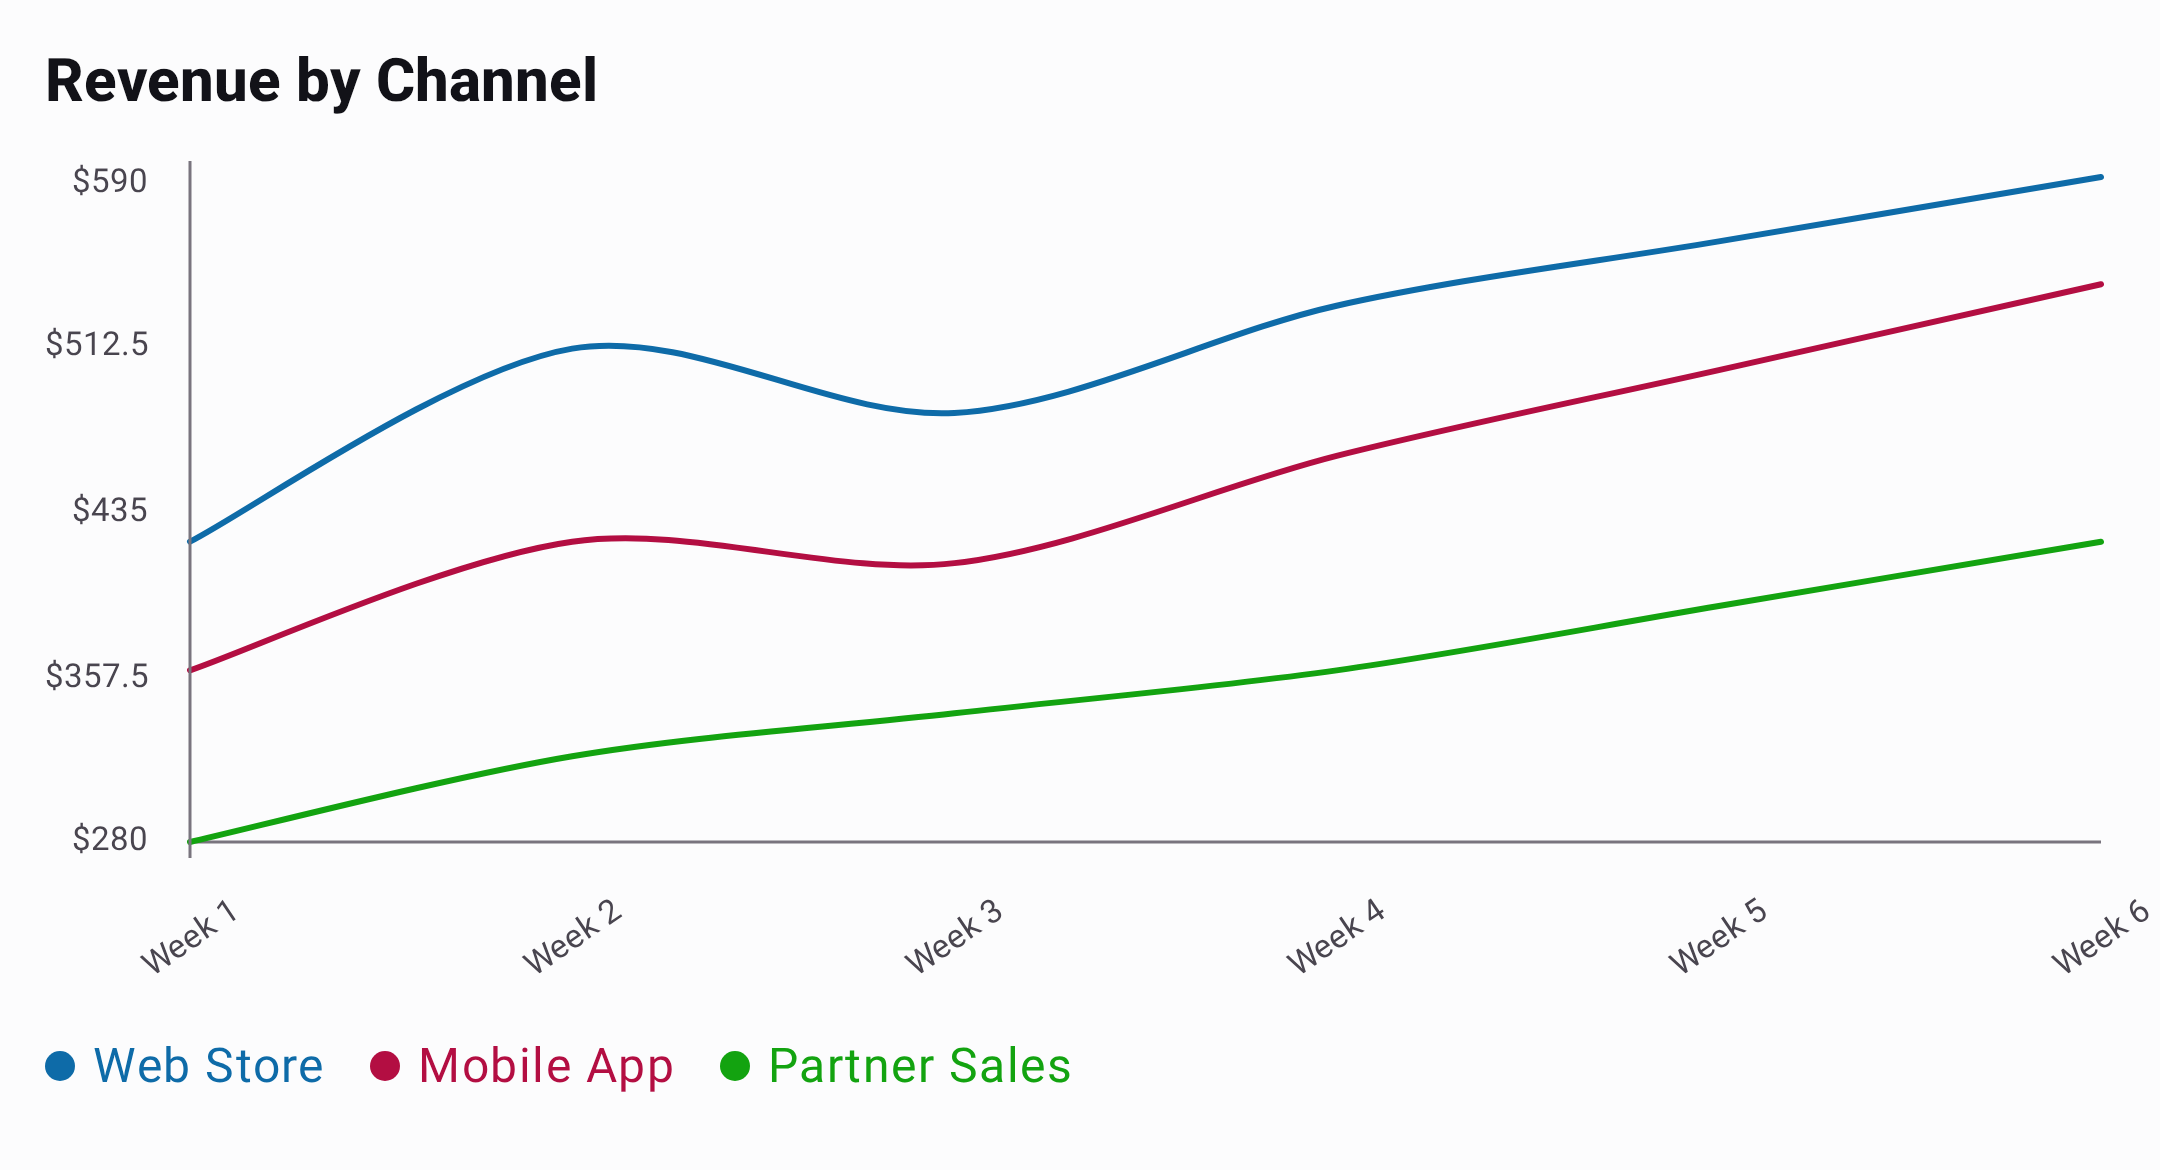
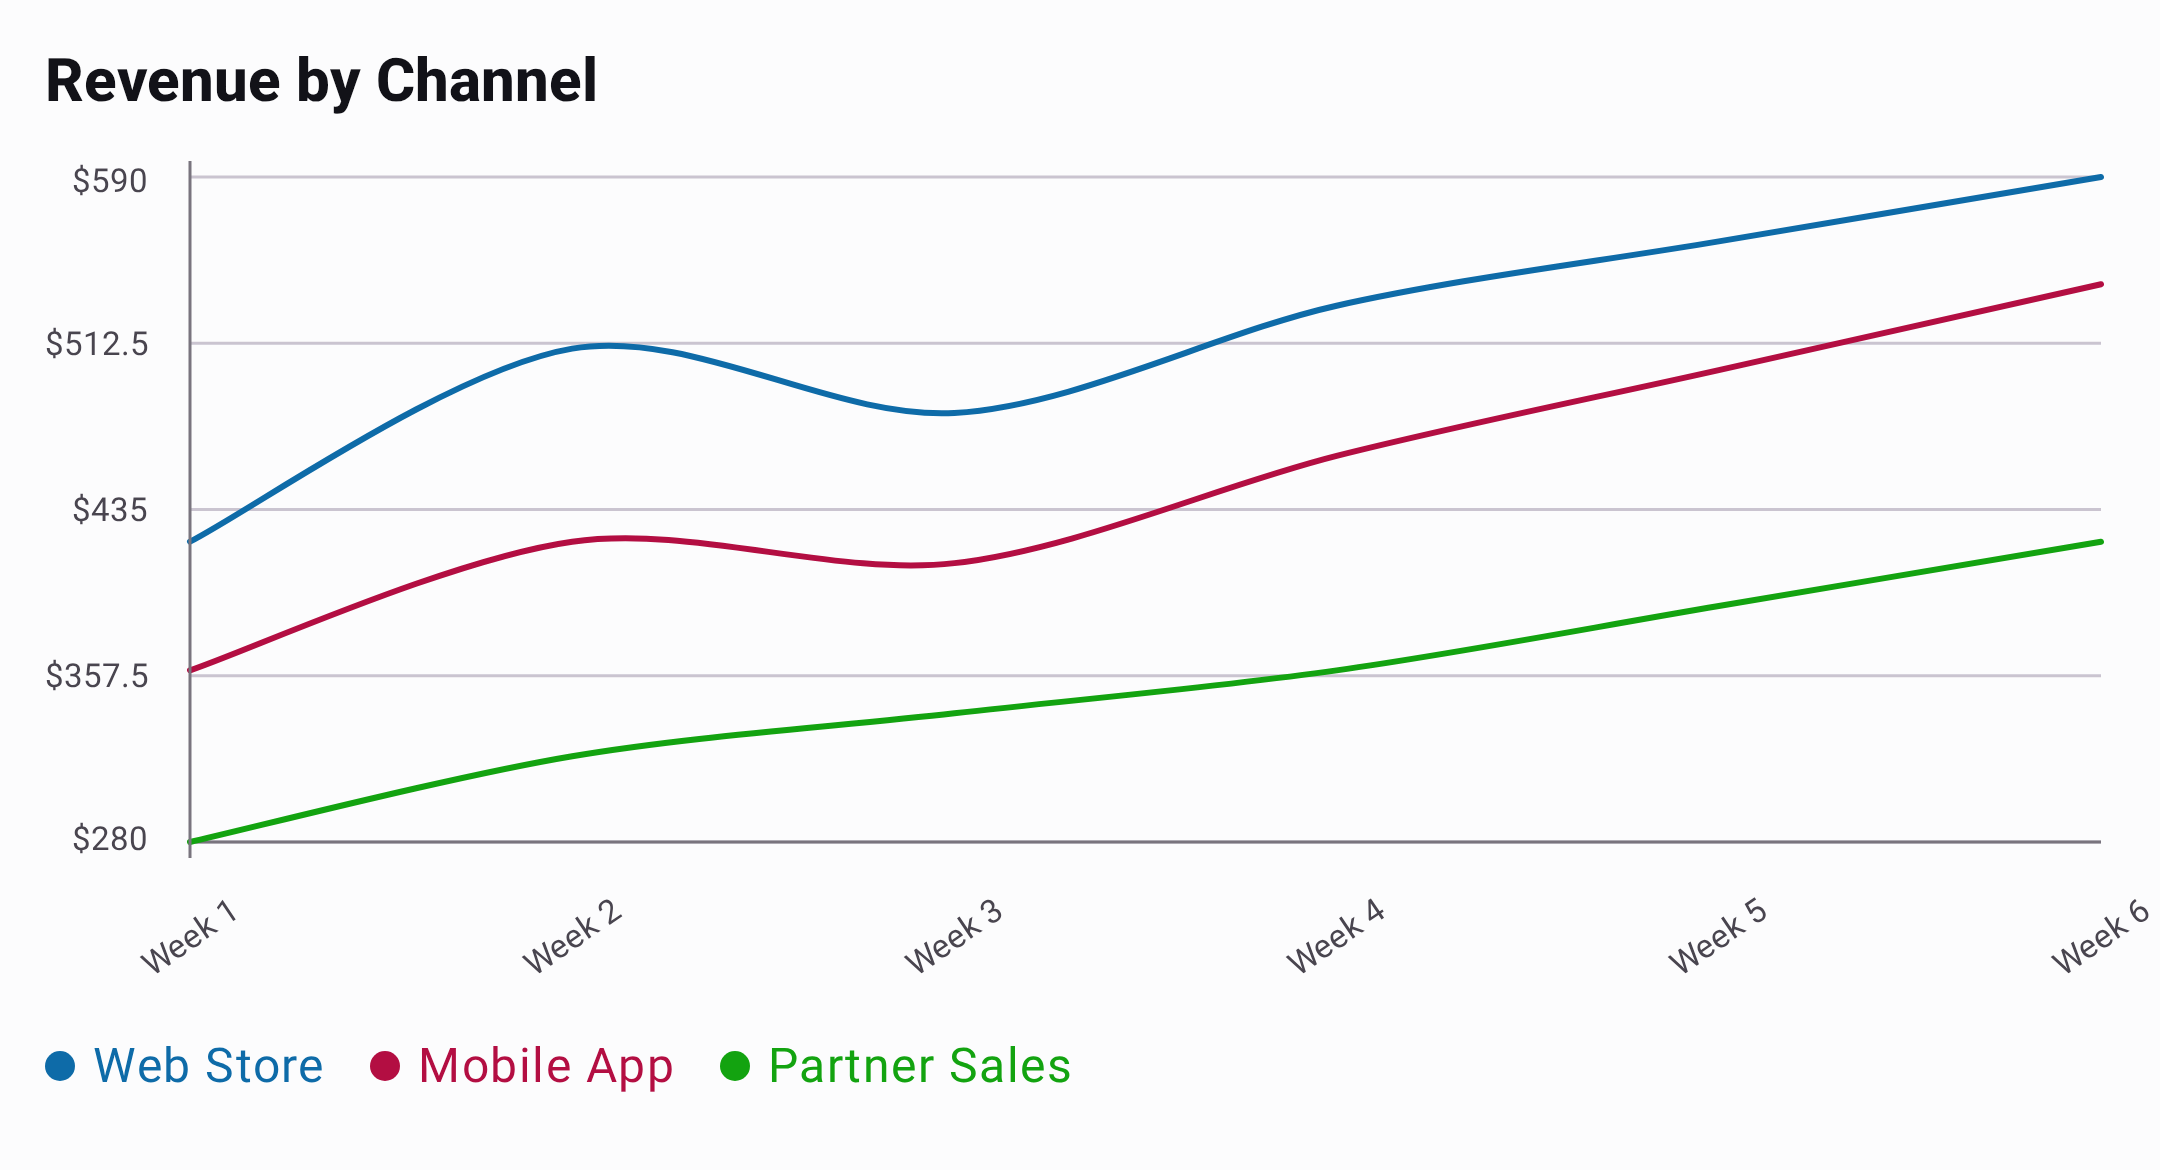
docs(snapshot): sync release notes, wiki docs, GIF baselines, hero image, and provenance

Changed region(s): [[0.0931, 0.1231, 0.9616, 0.1538]]

diff --git a/content/dev/internals/style-defaults.md b/content/dev/internals/style-defaults.md
@@ -14,23 +14,23 @@ between charts. The tables below list what it holds.
 
 ## Factories
 
-A chart's `*ChartDefaults` object has one factory per style block, plus `style()`. Users write every
-call against one object:
+Chart-specific blocks live on `*ChartDefaults`. Cartesian axes use shared factories in
+`charts-core`: `AxesDefaults`, `AxisLinesDefaults`, `GridDefaults`, and `AxisLabelDefaults`.
 
 ```kotlin
 BarChartDefaults.style(
-    axis = BarChartDefaults.axis(xLabels = BarChartDefaults.xLabels(maxCount = 4)),
+    axes = AxesDefaults.style(xLabels = AxisLabelDefaults.style(maxCount = 4)),
 )
 ```
 
-- **Nesting stops at three levels:** `style`, then a block, then axis labels. Axis labels are the
-  only third level, and all Cartesian charts share them as `AxisLabelStyle`. Values passed into a
-  block, such as `Color`, `TextStyle` and `ChartGradient`, are not levels.
-- **Every block gets a factory on the chart's own object**, even when the block type is shared.
-  `HistogramChartDefaults` forwards `grid`, `axis`, `xLabels`, `yLabels` and `selection` to
-  `BarChartDefaults`, and its `range` keeps a zero minimum.
-- **Forwarding factories repeat the default parameters**, because Kotlin cannot forward them. Both
-  read the same `StyleDefaults` value, and a test compares the two objects (`BarStyleDefaultsTest`).
+- **Nesting stops at three levels:** `style`, then `axes`, then `lines`, `grid`, `xLabels`, or
+  `yLabels`. Values such as `Color`, `TextStyle`, and `ChartGradient` are not levels.
+- **Shared axes have one owner.** Charts default to `AxesDefaults.style()`. The master `visible`
+  switch gates drawing and label layout; each child keeps its own visibility setting.
+- **Label convenience factories remain available:** `*ChartDefaults.xLabels` and `yLabels`.
+  Histogram also forwards `bars` and `selection` to `BarChartDefaults`; its range keeps a zero minimum.
+- **Defaults come from `StyleDefaults`.** Forwarding factories use the same values as their shared
+  counterparts.
 
 ## Colors
 
@@ -44,8 +44,8 @@ theme in light and dark mode. Do not lower the alpha of a theme color, and do no
 | Points | `tertiary` | Line, radar (with `colorSameAsLine = false`) |
 | Axis labels | `onSurfaceVariant` | Bar, histogram, line, stacked bar, stacked area, radar, ring gauge (range labels) |
 | Title | `onSurface` | All |
-| Grid lines | `outlineVariant` | Bar, histogram, radar (rings and spokes) |
-| Axis lines | `outline` | Bar, histogram, line |
+| Grid lines | `outlineVariant` | Bar, histogram, line, stacked bar, stacked area, radar (rings and spokes) |
+| Axis lines | `outline` | Bar, histogram, line, stacked bar, stacked area |
 | Selection line | `onSurface` | Bar, histogram, line, stacked bar, stacked area |
 | Selection marker | `tertiary` | Line |
 | Slice border | `surface` | Pie |
@@ -60,7 +60,8 @@ Sizes are `Dp`, so they scale with screen density. Point and marker sizes are ra
 
 | Element | Default | Charts |
 | --- | --- | --- |
-| Grid and axis lines | `1.dp` | Bar, histogram, line, radar |
+| Grid lines | `1.dp` | Bar, histogram, line, stacked bar, stacked area, radar |
+| Axis lines | `1.dp` | Bar, histogram, line, stacked bar, stacked area, radar |
 | Selection line | `1.dp` | Bar, histogram, line, stacked bar, stacked area |
 | Slice border | `1.dp` | Pie |
 | Series line | `2.dp` | Line (`strokeWidth`), radar (`lineWidth`) |
@@ -116,11 +117,14 @@ removed stacked-area boundary line. At full opacity it cannot be seen.
 
 | Setting | Default | Charts |
 | --- | --- | --- |
-| Grid steps | `4` | Bar, histogram, radar |
+| Axes, axis lines, and axis labels visible | `true` | Bar, histogram, line, stacked bar, stacked area |
+| Grid visible | `true` | Bar, histogram, line, stacked bar, stacked area, radar |
+| Grid steps | `4` | Bar, histogram, line, stacked bar, stacked area, radar |
 | Range | Fitted to the data, minimum `0.0` on histogram | Bar, histogram, line |
 | Gauge range | `0.0..100.0` | Ring gauge |
 | Gauge track and range labels visible | `true` | Ring gauge |
-| Axis label `maxCount` | `null` (as many as fit) | Bar, histogram, line, stacked bar, stacked area |
+| Axis label `maxCount` (`axisLabelMaxCount`) | `null` (X: as many as fit; Y: up to `yAxisMaxLabelCount`) | Bar, histogram, line, stacked bar, stacked area |
+| Y-axis label maximum (`yAxisMaxLabelCount`) | `5`; short plots show fewer | Bar, histogram, line, stacked bar, stacked area |
 | Curved lines (`bezier`) | `true` on line, `false` on stacked area | Line, stacked area |
 | Points visible | `false`; the selected point is still drawn | Line, radar |
 | Radar axis labels visible | `true`; the web shrinks to leave room for them | Radar |

diff --git a/content/snapshot/wiki/customization.md b/content/snapshot/wiki/customization.md
@@ -17,6 +17,9 @@ import androidx.compose.ui.unit.sp
 import io.github.hdcharts.bar.BarChart
 import io.github.hdcharts.core.model.ChartValueFormatters
 import io.github.hdcharts.core.model.toChartData
+import io.github.hdcharts.core.style.AxesDefaults
+import io.github.hdcharts.core.style.AxisLinesDefaults
+import io.github.hdcharts.core.style.GridDefaults
 import io.github.hdcharts.core.style.BarChartDefaults
 
 @Composable
@@ -32,7 +35,7 @@ private fun ShowStyledBar() {
         space = 14.dp,
         minBarWidth = 10.dp,
     )
-    val grid = BarChartDefaults.grid(steps = 5, color = Color(0xFF94A3B8), lineWidth = 1.dp)
+    val grid = GridDefaults.style(color = Color(0xFF94A3B8), lineWidth = 1.dp)
     val selection = BarChartDefaults.selection(
         color = Color(0xFFEA580C),
         width = 1.dp,
@@ -40,13 +43,18 @@ private fun ShowStyledBar() {
     )
     val xLabels = BarChartDefaults.xLabels(color = Color.Gray, size = 11.sp, maxCount = 6)
     val yLabels = BarChartDefaults.yLabels(color = Color.Gray, size = 11.sp, maxCount = 6)
-    val axis = BarChartDefaults.axis(color = Color.Gray, lineWidth = 1.dp, xLabels = xLabels, yLabels = yLabels)
+    val axes = AxesDefaults.style(
+        lines = AxisLinesDefaults.style(color = Color.Gray, lineWidth = 1.dp),
+        grid = grid,
+        xLabels = xLabels,
+        yLabels = yLabels,
+    )
 
     BarChart(
         data = data,
         modifier = Modifier.background(Color(0xFFF8FAFC), RoundedCornerShape(18.dp)).padding(20.dp),
         title = "Daily Net Cash Flow",
-        style = BarChartDefaults.style(bars = bars, grid = grid, axis = axis, selection = selection),
+        style = BarChartDefaults.style(bars = bars, axes = axes, selection = selection),
         selectedValueFormatter = ChartValueFormatters.prefix("$"),
     )
 }
@@ -58,6 +66,16 @@ Here `selectedValueFormatter` adds currency to selected raw values only; Y ticks
 
 Several charts can paint their shapes with a gradient instead of a solid color, covered in
 [Gradients](/{{version}}/wiki/gradients).
+
+## Axes
+
+Bar, histogram, line, stacked bar, and stacked area charts share `AxesStyle`. Its `lines`, `grid`,
+`xLabels`, and `yLabels` blocks control each element separately. `lines` means the X- and Y-axis
+strokes, including the chart baseline.
+
+Set `axes = AxesDefaults.style(visible = false)` to hide all four elements and reclaim label space.
+This also hides the grid on a sparkline. To keep labels and grid while hiding just the axis strokes,
+use `AxesDefaults.style(lines = AxisLinesDefaults.style(visible = false))`.
 
 ## Axis Labels
 
@@ -74,13 +92,26 @@ Set `maxCount` to cap the number of labels; it must be in 2..1000. Labels never 
 ```kotlin
 val style =
     BarChartDefaults.style(
-        axis =
-            BarChartDefaults.axis(
+        axes =
+            AxesDefaults.style(
                 xLabels = BarChartDefaults.xLabels(maxCount = 4),
                 yLabels = BarChartDefaults.yLabels(maxCount = 6),
             ),
     )
 ```
+
+## Grid Lines
+
+Bar, histogram, line, stacked bar, and stacked area charts draw horizontal grid lines. Configure `axes.grid` with `GridDefaults.style(...)`: `visible`, `steps`, `color`, and `lineWidth`. When Y labels show, the grid draws one line on each label, so it keeps matching them on short plots and with `yLabels(maxCount = ...)`. With Y labels hidden, `steps` sets the number of intervals; the default 4 steps draw 5 evenly spaced lines.
+
+```kotlin
+val style =
+    LineChartDefaults.style(
+        axes = AxesDefaults.style(grid = GridDefaults.style(color = Color.LightGray)),
+    )
+```
+
+Pass `GridDefaults.style(visible = false)` to hide only the grid.
 
 ## Sizing
 

diff --git a/content/dev/decisions/index.md b/content/dev/decisions/index.md
@@ -18,3 +18,4 @@ and, where useful, an issue to check whether it paid off. The pull request holds
 | 2026-10-05 | Release jobs start with no Gradle cache, so a release builds from fresh downloads and never from a stale cache. Snapshot jobs keep using the cache. | [#668](https://github.com/HDCharts/charts/pull/668) | — | Release jobs download every dependency on each run. | — | — |
 | 2026-10-06 | CI installs the JetBrains JDK 21 that `gradle/gradle-daemon-jvm.properties` names for the Gradle daemon, before JDK 17, and names its path in `org.gradle.java.installations.paths` in `~/.gradle/gradle.properties`, so Gradle doesn't download it from foojay. The daemon JVM lookup ignores `~/.m2/toolchains.xml`. | [#684](https://github.com/HDCharts/charts/pull/684) | Each Gradle job downloaded the daemon JDK from `api.foojay.io`. When foojay didn't respond, every Gradle job on [#682](https://github.com/HDCharts/charts/pull/682) failed (run 37502565335). | Expected: CI no longer depends on foojay. Each job downloads JBR 21 through setup-java instead. | [#683](https://github.com/HDCharts/charts/issues/683) | — |
 | 2026-10-07 | Turn off Axion's `unshallowRepoOnCI`, so only jobs that clone the full history get the real version. `Assemble`, `Compile`, `Lint` and `Test` stay shallow and build as `0.1.0-SNAPSHOT`; `Lint` moves from a full clone to a shallow one. | [#751](https://github.com/HDCharts/charts/pull/751) | On CI, Axion fetched the full history through JGit while Gradle configured every build, needed or not: about 13–24s from its `Unshallowing repo` log line to the next line in the shallow jobs. | Expected about 10–15s less per Gradle job that doesn't need the version. | [#750](https://github.com/HDCharts/charts/issues/750) | — |
+| 2026-10-12 | The web demo's and the playground's `index.html` clear Compose's `compose_web_resources_cache` and wait for that before they load the app script. Compose 1.12.1 clears this cache on each page load without waiting, and in WebKit (Safari, DuckDuckGo, every iOS browser) resource loads read the old entries first. | [#778](https://github.com/HDCharts/charts/pull/778), [charts-playground#62](https://github.com/HDCharts/charts-playground/pull/62) | After a deploy that changed strings, returning WebKit visitors read the previous deploy's `strings.commonMain.cvr`. String decoding threw `IllegalArgumentException` and the loader spun until a refresh. Local Playwright WebKit test with a stale `strings.commonMain.cvr` in the cache: stuck 5 of 5 loads, in the demo and in the playground. | Same test, in both: stuck 0 of 8 in WebKit, 0 of 5 in Chromium. No extra downloads, since Compose already clears this cache on every load. | [#779](https://github.com/HDCharts/charts/issues/779) | — |

diff --git a/release-notes/3.0.0/migrations/shared-chart-contracts.md b/release-notes/3.0.0/migrations/shared-chart-contracts.md
@@ -53,6 +53,29 @@ Callbacks run only when the selected index changes. Use
 `staticChartSelection(index)` for an initial selection in a preview or
 screenshot.
 
+## Axes
+
+Bar, histogram, line, stacked bar, and stacked area use the shared `axes` style block.
+Configure axis strokes with `axes.lines`, horizontal grid lines with `axes.grid`, and labels
+with `axes.xLabels` and `axes.yLabels`.
+
+```kotlin
+LineChartDefaults.style(
+    axes = AxesDefaults.style(
+        lines = AxisLinesDefaults.style(visible = false),
+        grid = GridDefaults.style(color = Color.LightGray),
+    ),
+)
+```
+
+`AxesDefaults.style(visible = false)` hides all axis strokes, grid lines, and labels, and releases
+label space. Use it for sparklines. Hiding only `lines` leaves grid and label visibility independent.
+These charts show a grid by default, including line and stacked charts.
+
+With Y labels visible, the grid follows their ticks: `yLabels.maxCount` controls the maximum count,
+which defaults to five and reduces on short plots. With Y labels hidden, `grid.steps` controls
+intervals; four steps draw five lines. Zero steps always hides the grid.
+
 ## Default colors
 
 Series colors draw at full opacity. `alpha` defaults to `1f` on bar, histogram,

diff --git a/release-notes/3.0.0/migrations/bar-histogram-v3.md b/release-notes/3.0.0/migrations/bar-histogram-v3.md
@@ -58,8 +58,8 @@ top-level `selection` parameter instead.
 ## Styles
 
 Styles are grouped. Migrate customizations to the corresponding blocks on
-`BarChartStyle` or `HistogramChartStyle`, such as `bars`, `range`, `grid`,
-`axis`, and `selection`. Create bar styles with `BarChartDefaults` and
+`BarChartStyle` or `HistogramChartStyle`, such as `bars`, `range`,
+`axes`, and `selection`. Create bar styles with `BarChartDefaults` and
 histogram styles with `HistogramChartDefaults`, rather than the removed flat
 style parameters.
 

diff --git a/release-notes/3.0.0/migrations/stacked-bar-v3.md b/release-notes/3.0.0/migrations/stacked-bar-v3.md
@@ -50,7 +50,7 @@ label, and each new series contains one segment column.
 ## Styles and selection
 
 Move customizations to the grouped `StackedBarChartStyle` sections such as
-`segments`, `layout`, `axis`, and `selection`. Segment colors correspond to
+`segments`, `layout`, `axes`, and `selection`. Segment colors correspond to
 series, not bars.
 
 Use `selection` instead of `selectedBarIndex`. Selection applies to a whole bar,

diff --git a/release-notes/3.0.0/migrations/line-v3.md b/release-notes/3.0.0/migrations/line-v3.md
@@ -73,7 +73,7 @@ from its calls.
 ## Styles and selection
 
 Move customizations to the grouped `LineChartStyle` sections such as `line`,
-`points`, `selection`, and `axis`. Use `selection` instead of
+`points`, `selection`, and `axes`. Use `selection` instead of
 `selectedPointIndex`; it identifies one source X index shared by all series.
 Use `staticChartSelection(index)` for a preset preview or screenshot.
 

diff --git a/release-notes/3.0.0/migrations/stacked-area-v3.md b/release-notes/3.0.0/migrations/stacked-area-v3.md
@@ -48,7 +48,7 @@ The old `MultiChartDataSet` and `selectedPointIndex` inputs are removed. Use
 ## Styles and selection
 
 Move customizations to the grouped `StackedAreaChartStyle` sections such as
-`fill`, `axis`, and `selection`. Series colors correspond to
+`fill`, `axes`, and `selection`. Series colors correspond to
 contribution series.
 
 Stacked areas no longer draw boundary lines. Set the curve with

diff --git a/content/dev/internals/style-clamping.md b/content/dev/internals/style-clamping.md
@@ -76,7 +76,7 @@ style composes its blocks' clamps and adds nothing of its own.
       StackedAreaChartStyle(
           chartContainerStyle = chartContainerStyle,
           fill = fill.clamp(),
-          axis = axis,
+          axes = axes.clamp(density),
           selection = selection.clamp(density),
           legend = legend,
           zoomControlsVisible = zoomControlsVisible,
